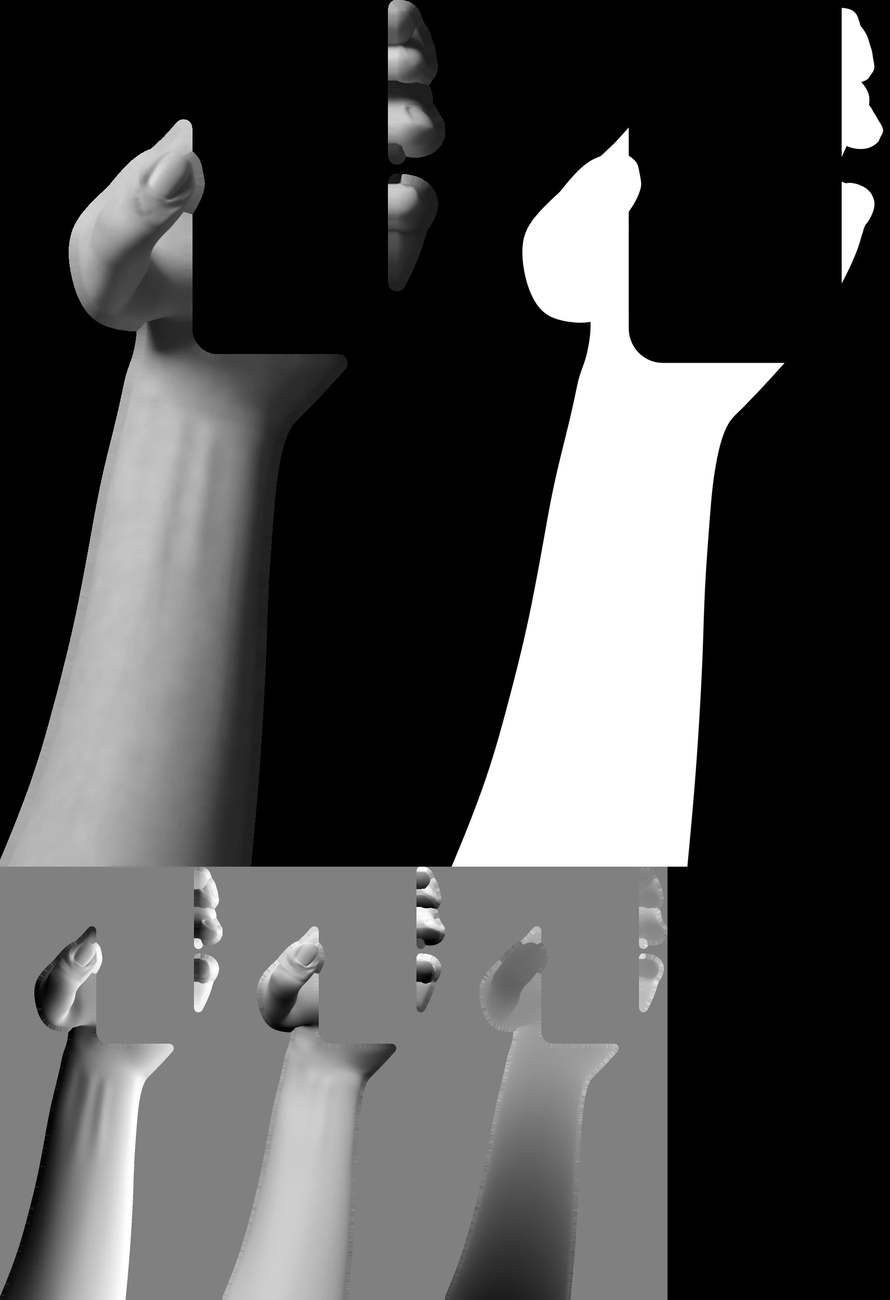
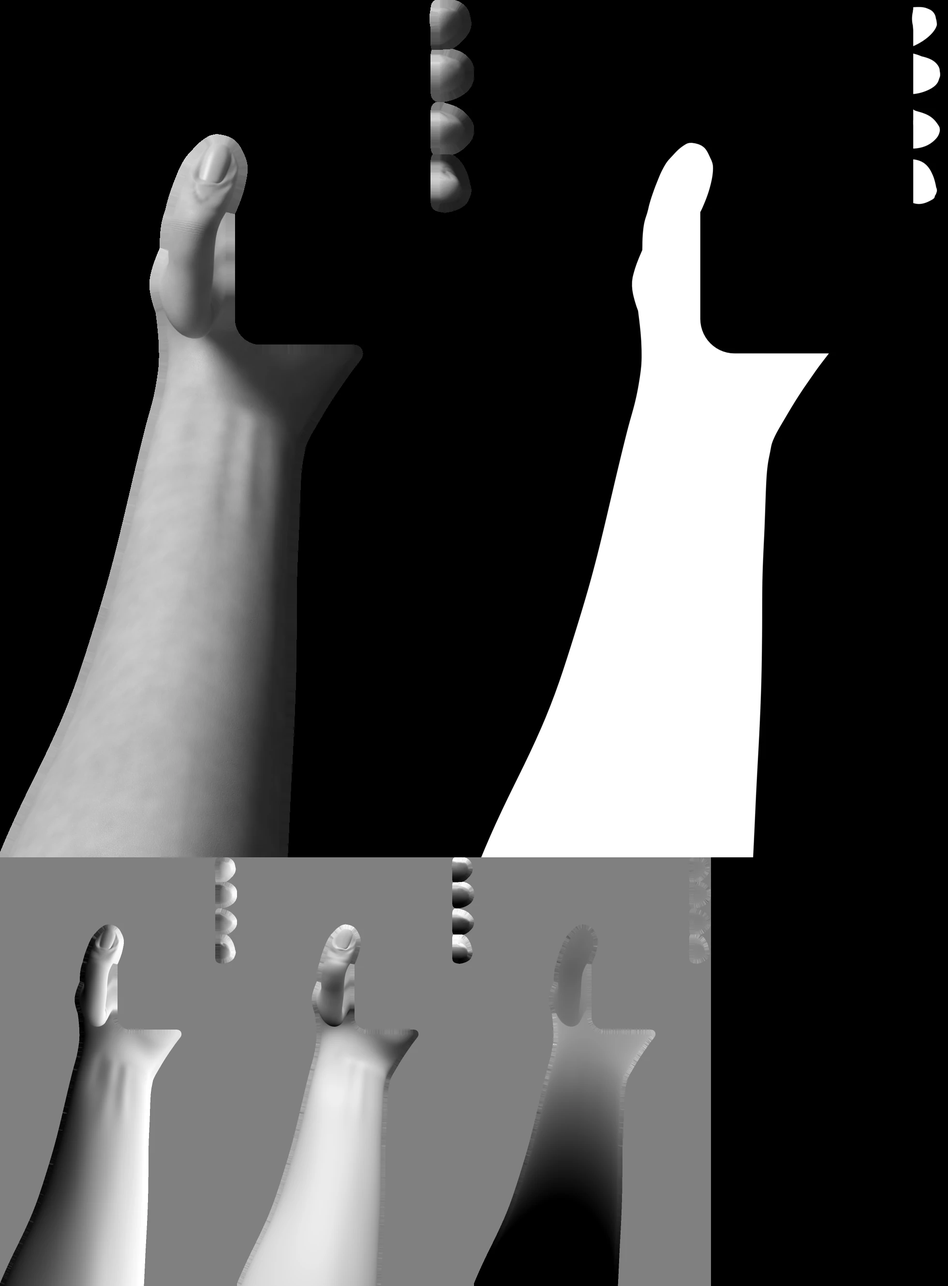
Hand-Pässe sechster Durchgang: Daumen und Ballen schlanker mit durchgehender linker Kontur ohne Hals, kein Hautkeil über dem Daumen, vier Kuppen mit Lücken, Zeigehand mit angelegtem Daumen und Faust in der Soll-Box, Haut mit Tonvariation und Glanz, HAND.md mit neuen Messwerten

diff --git a/design/HAND.md b/design/HAND.md
@@ -1,28 +1,30 @@
 # HAND: realistische Hände aus Blender
 
-Stand 2026-10-07, fünfter Durchgang (Branch `hand-v2`). Die beiden Hände der Engine (Handy-Hand `holdBack`/`holdFront`, Zeigehand `point`) kommen aus gerenderten Daten-Pässen (Leuchtdichte, Alpha, Normale, Tiefe); die Engine zeichnet daraus weiter Halbton-Punkte mit Zeigerlicht. Struktur wie in der Design-Referenz: linke Hand hält das Handy von hinten, Daumen schräg über der linken Rahmenkante, breiter Daumenballen links bis zur Handyunterkante, gestaffelte Fingerkuppen am rechten Rand, Handgelenk und Unterarm laufen unter dem Handy fast senkrecht nach unten; rechte Zeigehand von unten rechts, Zeigefinger steil zur Spitze bei (794, 301), übrige Finger eingerollt, Daumen über die eingerollten Finger gelegt, Unterarm in etwa 45° zur unteren rechten Ecke.
+Stand 2026-10-07, sechster Durchgang (Branch `hand-v2`). Die beiden Hände der Engine (Handy-Hand `holdBack`/`holdFront`, Zeigehand `point`) kommen aus gerenderten Daten-Pässen (Leuchtdichte, Alpha, Normale, Tiefe); die Engine zeichnet daraus weiter Halbton-Punkte mit Zeigerlicht. Struktur wie in der Design-Referenz: linke Hand hält das Handy von hinten, Daumen schräg über der linken Rahmenkante, breiter Daumenballen links bis zur Handyunterkante, gestaffelte Fingerkuppen am rechten Rand, Handgelenk und Unterarm laufen unter dem Handy fast senkrecht nach unten; rechte Zeigehand von unten rechts, Zeigefinger steil zur Spitze bei (794, 301), übrige Finger eingerollt, Daumen angelegt, Faust vor dem Bildschirm, Unterarm in etwa 45° zur unteren rechten Ecke.
 
-## 0. Was sich im fünften Durchgang geändert hat
+## 0. Was sich im sechsten Durchgang geändert hat
 
-Die Jury hat den vierten Stand (Basisnetz „Hand – Realistic“) mit 4/10 abgelehnt: Daumen als dünner Stiel, kein Thenar, Kugelkuppen mit Glanzringen, Finger ohne Lücken, Unterarm als Röhre, Zeigehand zu flach und puppenhaft, helle Säume, Weiß-Clipping. Neu ist alles außer Pass-Format und Shader:
+Die Jury hat den fünften Stand (c961d10) mit 5/10 bewertet. Modell (MPFB-Mann), Rig, Pass-Format und Shader bleiben; geändert sind Netz-Korrekturen, Gewichte, Posen, Haut und Messung. Vergleich vorher/nachher: `archiv/hand/v3/doc4/vorher_nachher.png`.
 
-- **Neues Modell:** Mensch aus **MPFB 2.0.17** (MakeHuman für Blender, CC0), Erwachsener, Mann (Makros `gender 0,9`, `age 0,55`, `muscle 0,62`, `weight 0,5`), MPFB-Standard-Rig `default` (Mittelhandknochen, drei Glieder je Finger, Daumen mit drei Knochen, Handgelenk, zwei Unterarmknochen) mit den MPFB-Gewichten. Beide Unterarme ab dem Ellbogen werden herausgelöst (`v3/scripts/extract.py`) und zweifach unterteilt (`bake_sub.py`, 29 305 Punkte je Arm). Modellwahl: Abschnitt 9.
-- **Anatomie ergänzt** (`v3/scripts/sculpt3.py`, im Ruhezustand, Verschiebung entlang der Normale): Beugesehnen am Handgelenk (Palmaris longus, Flexor carpi radialis/ulnaris), Brachioradialis- und Beugermasse am proximalen Unterarm (Unterarm konisch statt Röhre), Elle-Kopf, Strecksehnen und Knöchel-Plateaus (MCP) auf dem Handrücken, leichte Verdickung an PIP/DIP, Fingerbeeren. Die MPFB-Nagelrille (Ursache der „Ringe“) wird radial geglättet; der Nagel ist eine eigene Maske (abgerundetes Rechteck, länger als breit, Nagelhaut als Bogen, seitlicher Falz), 0,06 mm erhaben. Venen als Attribut (Unterarm volar, Handrücken).
-- **Haut** (`v3/scripts/skin3.py`): Random-Walk-Subsurface (Radius 1/0,42/0,25, Skala 4 mm), Albedo-Variation (Handfläche heller, Rücken und Gelenke dunkler/rötlicher, großflächige Flecken), Venen leicht bläulich-dunkler, Gelenkfalten als Relief quer zur Fingerachse (Abstand 1,15 mm, Hülle an PIP/DIP/MCP), Handgelenk mit zwei bis drei Beugefalten, Poren und feine Linien. Nägel heller, Rauigkeit 0,4 statt 0,6 (weicher Glanz), Nagelhaut als dunkle Linie. Kein Sheen, Specular 0,28.
-- **Pose aus Optimierung statt Handarbeit:** Handy-Hand per Nelder-Mead (`v3/scripts/opt_hold.py`) über Handgelenk-Lage, Handrichtung, Rollen, Handgelenk-Abweichung/-Beugung; Finger per IK zu den Kuppen-Zielen, Daumen in einer zweiten Stufe per FK (`opt_thumb.py`) mit Zielen für Spitze, Richtung der Daumenglieder, Überstand, Nagel zur Kamera. Strafterme: Durchdringung des Handys, Handballen vor dem Bildschirm, Überstand der Kuppen außerhalb 30 bis 52 px, Unterarmwinkel, Hautkeil links über dem Daumen. Zeigehand per FK mit Handgelenk-Suche, sodass der Unterarm in Richtung der Ecke läuft (`point3.py`).
-- **Verformung:** Armature, danach *Corrective Smooth* (Ruhezustand ORCO, 6 Iterationen), danach Unterteilung 1. Unterarmstreckung nur an den Unterarmknochen (`inherit_scale NONE` am Handgelenk), Hand und Finger bleiben unverzerrt.
-- **Licht:** nur Key (Fläche 0,30 m oben links vorne) und schwacher Fill von rechts vorne, **kein Rim**, Welt 0,01; Handy wirft keinen Schatten auf die Kuppen (sonst unlesbar). Zeigehand: steilerer Key (`lights/LP1.json`) für Kernschatten an Faust und Daumen.
-- **Tonkurve ohne Clipping** (`v3/scripts/pack5.py`): weiche Schulter (Reinhard mit Weißpunkt 1,6) statt hartem Abschneiden, 99,5. Perzentil der Hand auf 0,8 gelegt. Ergebnis: p99 = 0,78, Maximum 0,89 nur in Glanzpunkten. Alpha straight aus dem transparenten Film (Pixelfilter 1,0 px), keine eingebackene Tinte, keine Fenster-Maske mehr: vor dem Handy liegt nur, was geometrisch davor liegt (Daumenkuppe).
+- **Hautkeil über dem Daumen:** stammte vom Zeigefinger-Mittelhandknochen hinter dem Handy, der links vom Rahmen über der Daumenkuppe hervorschaute. Die Pose hält ihn jetzt rechts vom Rahmen (Strafterm `wedge`, 20 je Punkt), und `render4.py` maskiert zusätzlich alle Nicht-Daumen-Punkte hinter der Handy-Vorderseite links von x 656 oberhalb der Daumenkuppe als Holdout (Attribut `hold`). Links vom Rahmen ragt oberhalb der Kuppe nichts mehr heraus.
+- **Einschnürung unter dem Daumenballen:** Ursache war das Daumengrundglied, das als Wurst vor dem Handy bis y 680 hing, während das Handgelenk dahinter weiter rechts lag. Neu: Ziel für das Daumen-Grundgelenk (MCP) links unten am Rahmen, Hand um die Längsachse auf −27° gerollt, Handgelenk-Ziel x 640, Konturterm je 20-px-Band (x 560–590, ab y 660 höchstens 570) mit Glattheitsterm (Sprung ≤ 6 px). Gemessen aus `a` (`v3/scripts/leftrows.py`): linke Kontur von y 560 bis 790 zwischen x 559 und 573, Zeile zu Zeile höchstens 4 px Änderung, kein Hals, keine waagerechte Unterkante.
+- **Daumen und Ballen schlanker** (`v3/scripts/sculpt4.py`, im Ruhenetz): Daumen-Grund-/Endglied radial auf 0,72/0,86 um die Knochenachse, Ballen um den Daumen-Mittelhandknochen auf 0,6 eingezogen (zur Handwurzel hin auslaufend 1,25–1,45, damit kein Absatz entsteht). Daumen-Endgelenk per Taubin-Glättung (ohne Volumenverlust) entknotet, IP-Beugung auf höchstens 40° begrenzt (die 72° des fünften Stands quetschten die Haut hinter dem Nagel zu einem Knoten). Keine Venen am Daumen.
+- **Kuppen rechts:** Zeige-, Mittel-, Ring- und kleiner Finger per IK mit vier Knochen (Mittelhand + drei Glieder; Mittelhandknochen ±25°/±12° begrenzt), damit auch Zeige- und kleiner Finger um die Kante reichen; Strafterm für sichtbare Punkte rechts vom Rahmen außerhalb ±28 px um die Ziele (Lücken, kein Schwanz). Optimiert auf dem unterteilten Netz (29 305 Punkte), Zählterme durch die Dichte (16) geteilt.
+- **Gelenkfalten:** Hülle 1,9 mm statt 4,5 mm, Abstand 1,5 mm, also 2–3 flache Querfalten an PIP/DIP/IP statt vieler paralleler Riefen; Daumen-MCP schwächer.
+- **Zeigehand:** Daumen per eigener Optimierung (`opt_pthumb.py`, Raster + Nelder-Mead, Durchdringung per BVH) angelegt, Spitze am Mittelglied des Mittelfingers. Hand um die Zeigefingerachse auf −80° gerollt: Sicht auf Handrücken mit Knöchel-Plateaus, eingerollte Finger liegen hinter der Hand, Faust in der Soll-Box. Größe 0,44 statt 0,42. Unterarm weniger gestreckt (1,5/1,3 statt 1,9/1,4), dafür 1,2–1,3-fach dicker; Strecksehnen und MCP-Knöchel zusätzlich modelliert (`sculpt4.py`, `tendons`), Brachioradialis-Masse proximal +22 %.
+- **Haut** (`v3/scripts/skin4.py`): zusätzlich großflächige Tonvariation (Noise 22/m, Overlay 0,3), Rauigkeit 0,44–0,58 mit Noise statt konstant 0,6, Specular 0,42 statt 0,28 (feuchter Hautglanz statt Gips), Bump 0,42; Nägel 0,36 Rauigkeit mit weicher Glanzlinie. Poren (Voronoi 0,45 mm) und Falten bleiben unter der Halbtonzelle (2,5 px ≈ 0,6 mm).
+
+Grundlage aus dem fünften Durchgang (weiter gültig): MPFB-Mann, Rig `default` mit detailed helpers, Herauslösen der Unterarme (`extract.py`), Unterteilung 2 (`bake_sub.py`), `sculpt3.py` (Beugesehnen, Brachioradialis, Elle-Kopf, Strecksehnen, Knöchel, Fingerbeeren, eigene Nagelmaske), Corrective Smooth + Unterteilung 1 beim Render, Licht ohne Rim, Tonkurve mit weicher Schulter (`pack5.py`).
 
 ## 1. Dateien
 
 | Datei | Inhalt | Größe |
 |---|---|---|
-| `public/hand/hold.webp` + `hold.json` | Hand, die das Handy hält (Atlas 1840 × 2688, Kachel 920 × 1792, Maßstab 1,5, `origin [400, 205,3]`, `bottomY 1400`) | 64 kB |
-| `public/hand/point.webp` + `point.json` | Zeigehand als Sprite (Atlas 4296 × 552, Kachel 2148 × 368, Maßstab 1,0, `origin [−8, −80]`) | 43 kB |
-| Summe | | 107 kB (Grenze 600 kB) |
+| `public/hand/hold.webp` + `hold.json` | Hand, die das Handy hält (Atlas 1960 × 2658, Kachel 980 × 1772, Maßstab 1,5, `origin [341,3, 218,7]`, `bottomY 1400`) | 61 kB |
+| `public/hand/point.webp` + `point.json` | Zeigehand als Sprite (Atlas 4304 × 774, Kachel 2152 × 516, Maßstab 1,0, `origin [−12, −36]`) | 58 kB |
+| Summe | | 119 kB (Grenze 600 kB) |
 
-Schlüssel, Kachelnamen, Kodierung, `space`, `phone`, `screen`, `bottomY` und die Bühnenkoordinaten sind unverändert; geändert haben sich nur Kachelmaße, `origin` und Inhalt. Nichts ist abgeschnitten: die Handy-Hand endet unten an `bottomY 1400`, der Unterarm der Zeigehand reicht 1180 Bühnen-px weit und damit über das Verblassen (520 + 560) hinaus.
+Schlüssel, Kachelnamen, Kodierung, `space`, `phone`, `screen`, `bottomY` und die Bühnenkoordinaten sind unverändert; geändert haben sich nur Kachelmaße, `origin` und Inhalt. Nichts ist abgeschnitten: die Handy-Hand endet unten an `bottomY 1400`, der Unterarm der Zeigehand reicht 1180 Bühnen-px weit (Sprite 2139 px × 0,55) und damit über das Verblassen (520 + 560) hinaus.
 
 ## 2. Koordinaten
 
@@ -43,32 +45,34 @@ Bühne der Engine: 1280 × 800, Handy-Mitte 800/400, 4,19 Bühnen-px je mm in de
 | `nx`, `ny` | halb | Normale im Bildraum, 0..255 = −1..1 (x nach rechts, y nach oben), `nz = sqrt(1 − nx² − ny²)` |
 | `z` | halb | Tiefe, 0..255 = −100..+100 mm relativ zur Handy-Vorderseite (Handy-Pass) bzw. zur Fingerspitzen-Ebene (Zeigehand), plus = weiter weg |
 
-Lage in der Bühne: `origin` (Bühnen-px der oberen linken Ecke von `lum`/`a`) und `scale` (Kachel-px je Bühnen-px). Kachel-px `u = (x − origin.x) · scale / div`, `v = (y − origin.y) · scale / div`. Außerhalb der Silhouette sind `lum`, `nx`, `ny`, `z` 12 Bühnen-px nach außen fortgesetzt; immer mit `a` maskieren. Saum-Prüfung (`v3/scripts/edgecheck.py`): Helligkeit im Alpha-Rand minus 3 px innen im Mittel −0,008 (Handy-Hand) bzw. −0,016 (Zeigehand), also kein heller Saum; Randbreite ≤ 2 Kachel-px.
+Lage in der Bühne: `origin` (Bühnen-px der oberen linken Ecke von `lum`/`a`) und `scale` (Kachel-px je Bühnen-px). Kachel-px `u = (x − origin.x) · scale / div`, `v = (y − origin.y) · scale / div`. Außerhalb der Silhouette sind `lum`, `nx`, `ny`, `z` 12 Bühnen-px nach außen fortgesetzt; immer mit `a` maskieren. Saum-Prüfung (`v3/scripts/edgecheck.py`): Helligkeit im Alpha-Rand minus 3 px innen im Mittel −0,011 (Handy-Hand) bzw. −0,016 (Zeigehand), also kein heller Saum; Randbreite ≤ 2 Kachel-px.
 
 ## 4. Handy-Hand (`hold`)
 
-Linke Hand im Bild (MPFB-Rechtshand hinter der Spiegelkamera), Handgröße 1,06 des MPFB-Mannes (Handfläche 11,5 cm, Hand 19,5 cm). Gemessen im Bühnenraum aus `a`/`origin` (Soll aus der Referenz in Klammern):
+Linke Hand im Bild (MPFB-Rechtshand hinter der Spiegelkamera), Handgröße 1,0 des MPFB-Mannes (fünfter Stand 1,06). Gemessen im Bühnenraum aus `a`/`origin` (`leftrows.py`, `measure4.py`, `hold3.py`; Soll aus der Referenz in Klammern):
 
-- **Daumen:** äußerster Punkt der Kuppe bei x 670 / y 457, also **20 px** über dem Rahmen (Soll 15–25 px, y 400–460). Daumen schräg (Endglied 55°, Grundglied 68° zur Waagerechten), Nagel zur Kamera, breiter Daumenballen links des Handys von y 430 bis unter die Handyunterkante, linke Kontur bei x 515–600 (Soll ≈ 570).
-- **Kuppen rechts:** vier gestaffelte Fingerenden, Zeigefinger oben ≈ y 205–272, Mittelfinger ≈ 272–318, Ringfinger ≈ 333–405, kleiner Finger ≈ 459–540; Überstand über x 950: 27 / 44 / 53 / 41 px (Soll 28–48). Zwischen Ring- und kleinem Finger eine deutliche Lücke, zwischen den oberen drei schmale Lücken (die Finger liegen in der Tiefe gestaffelt).
-- **Handgelenk und Unterarm:** Handgelenk-Knochen bei (684, 775), Unterarm 10° aus der Senkrechten nach links unten, Breite bei y 800: 217 px (52 mm), das ist 0,61 der Handflächenbreite; konisch zum Ellbogen hin, Sehnen und Beugefalten am Handgelenk.
-- Die Handfläche liegt hinter dem Handy (Holdout). Links über dem Daumen bleibt ein schmaler Hautstreifen (Rückseite des Daumens am Rahmen, x 598–650, y 380–430), der in der Engine am DOM-Rahmen endet.
+- **Daumen:** äußerster Punkt vor dem Handy bei y 450, **21 px** über dem Rahmen (Soll 15–25 px, y 400–460); obere Kontur der Kuppe ab y 420. Endglied 71°, Grundglied 85° zur Waagerechten, IP 40° gebeugt, Nagel zur Kamera.
+- **Linke Kontur (Daumenballen bis Handgelenk):** x 629 (y 420, Kuppe) → 590 (y 480) → 573 (y 550) → **559 (y 610)** → 569 (y 660) → 572 (y 700) → 559 (y 790). Durchgehend leicht konvex, ohne Absatz bis unter die Handyunterkante (Soll ≈ 570, ≥ 560).
+- **Kuppen rechts:** vier Fingerenden mit Lücken; y-Bereiche rechts von x 953: 229–279 / 294–347 / 372–423 / 439–500, Lücken **15 / 25 / 16 px**, Überstand über x 950: **29 / 33 / 33 / 29 px** (Soll 28–48), kleiner Finger am kürzesten. IK-Ziele der Fingerspitzen (972, 246), (974, 326), (968, 402), (966, 476).
+- **Handgelenk und Unterarm:** Handgelenk-Knochen bei (659, 797), Unterarm 10° aus der Senkrechten nach links unten, bei y 800 von x 556 bis 767 (211 px = 50 mm), konisch zum Ellbogen hin, Sehnen und Beugefalten am Handgelenk.
+- Die Handfläche liegt hinter dem Handy (Holdout). Links vom Rahmen oberhalb der Daumenkuppe ist nichts mehr sichtbar (Pose + Maske `hold`).
 
 **Vorn/hinten** wie bisher im Shader aus `z` und Handy-Silhouette (`vorne = sdf < 4 && z < 1,5 mm`); vorne liegt nur die Daumenkuppe.
 
 ## 5. Zeigehand (`point`)
 
-Rechte Hand im Bild (MPFB-Linkshand hinter der Spiegelkamera), Handgröße 0,42 des MPFB-Mannes (die Referenz zeigt die Zeigehand deutlich kleiner als die haltende Hand). Pose: Zeigefinger gestreckt (MCP −4°, PIP 6°, DIP 4°), Mittel-/Ring-/kleiner Finger eingerollt (78/100/50, 82/100/50, 86/95/48), Daumen über die eingerollten Finger gelegt (`finger1-1 [30, −20, −25]`, `finger1-2 [20, 0, −10]`, `finger1-3 [30, 0, 0]`), Sicht auf Handfläche/Daumenseite wie in der Referenz (eingerollte Finger gestaffelt unten links), Zeigefinger 12° in die Bildschirmebene geneigt, Unterarm 25° zur Kamera ansteigend, Unterarmknochen 1,9/1,4-fach gestreckt.
+Rechte Hand im Bild (MPFB-Linkshand hinter der Spiegelkamera), Handgröße 0,44 des MPFB-Mannes (die Referenz zeigt die Zeigehand deutlich kleiner als die haltende Hand). Pose: Zeigefinger fast gestreckt (MCP −2°, PIP 10°, DIP 6°), Mittel-/Ring-/kleiner Finger eingerollt (78/100/50, 82/100/50, 86/95/48), **Daumen angelegt** (`finger1-1 [28,6, 26,3, 32,9]`, `finger1-2 [53,5, 0, −15,2]`, `finger1-3 [40, 0, 0]`, Spitze am Mittelglied des Mittelfingers, kollisionsfrei), Hand auf −80° um die Zeigefingerachse gerollt (Sicht auf Handrücken, Knöchel oben, eingerollte Finger hinter der Hand), Zeigefinger 12° in die Bildschirmebene geneigt, Unterarm 25° zur Kamera ansteigend, Unterarmknochen 1,5/1,3-fach lang und 1,2/1,3-fach dick.
 
-- Sprite-Raum unverändert: Ursprung = Fingerspitze, `x` = Richtung Arm, `y` nach unten = Seite der eingerollten Finger; `origin [−8, −80]`, Kachel 2148 × 368 bei Maßstab 1,0 (7,62 Sprite-px/mm, mit `PS 0,55` = 4,19 Bühnen-px/mm wie die Handy-Ebene).
+- Sprite-Raum unverändert: Ursprung = Fingerspitze, `x` = Richtung Arm, `y` nach unten = Seite der eingerollten Finger; `origin [−12, −36]`, Kachel 2152 × 516 bei Maßstab 1,0 (7,62 Sprite-px/mm, mit `PS 0,55` = 4,19 Bühnen-px/mm wie die Handy-Ebene).
 - Platzierung wie in der Engine (`u = normalize(1460 − ht.x, 1020 − ht.y)` usw., Abschnitt 6).
-- **Messwerte bei Spitze (794, 301)** (`v3/scripts/fistbox.py`): äußerster Spitzenpixel (798, 298); Zeigefinger **51°** über der Waagerechten (Soll 50–55°); Faust einschließlich Zeigefingerwurzel und Handgelenk x 754–930, y 336–550 (Soll Faust x 800–930, y 360–510: rechte Kante getroffen, die eingerollten Finger ragen 45 px weiter nach links); Unterarm **45,5°** zur Ecke, 99 px breit, verlässt die Bühne unten bei x 1065–1219.
+- **Messwerte bei Spitze (794, 301)** (`v3/scripts/fistbox.py`, `measure4.py`): Zeigefinger **52°** über der Waagerechten (Soll 50–55°); Faust einschließlich Zeigefingerwurzel und Handgelenk **x 798–926**, y 336–550 (Soll Faust x 800–930, y 360–510; fünfter Stand x 754–930); Unterarm **45°** zur Ecke, 118 px breit. Breite quer zum Arm (Sprite-px): Handgelenk 147, +150 px 175, +300 px 211 (1,43-fach, Brachioradialis-Bauch), +600 px 295. Handgelenk zu Hand (inkl. eingerollter Finger) 0,59; zur Mittelhand allein ≈ 0,65.
+- Die Textanfänge der Liste („Küche wischen“, „Mikas Bruder …“) bleiben frei; die Faust beginnt bei x 798.
 - **Verblassen:** wie im vierten Durchgang muss die Engine `300`/`420` in `drawHands` auf **`520`/`560`** setzen (der Referenz-Shader `v2/scripts/preview.html` macht das über `fs`/`fl`).
 - Helligkeit: Perzentil 99,5 → 0,8 mit weicher Schulter, keine Rampe mehr.
 
 ## 6. Halbton-Shader (Referenz, aus `preview.html`)
 
-Lauffähige Referenz: `/Users/abu/Company/archiv/hand/v2/scripts/preview.html` (Aufruf: Ordner `archiv/hand` mit `python3 -m http.server`, dann `/v2/scripts/preview.html?b=../out/<ordner>/`; Parameter `ps`, `g`, `con`, `rim`, `view`, `fs`/`fl` (Verblassen der Zeigehand), `ascii=1`, `mx/my/px/py`). Geprüft bei 1440 × 900 und 390 × 844 (Ausschnitt `view=560,40,540,1170`). Vergleichsbild (Design / Halbton / Luminanz): `archiv/hand/v3/doc/vergleich.png`.
+Lauffähige Referenz: `/Users/abu/Company/archiv/hand/v2/scripts/preview.html` (Aufruf: Ordner `archiv/hand` mit `python3 -m http.server`, dann `/v2/scripts/preview.html?b=../out/<ordner>/`; Parameter `ps`, `g`, `con`, `rim`, `view`, `fs`/`fl` (Verblassen der Zeigehand), `ascii=1`, `mx/my/px/py`). Geprüft bei 1440 × 900 und 390 × 844 (Ausschnitt `view=560,40,540,1170`). Vergleichsbild (Design / Halbton / Luminanz): `archiv/hand/v3/doc4/vergleich.png`.
 
 `dot()`, `HB`, `hsh`, `cl`, `ss`, `lightF`, `ink`, `step 2,5` bleiben aus der Engine. Neu ist nur die Herkunft von `v` (Ton 0..1) je Zelle. Abgestimmte Konstanten: `GAM 0,6`, `CON 1,25`, `RIM 0,45`, `EDW 3,4`, `EDV 1,0`, `JIT 0,15` (Engine: 0,4; weniger Zufall = lesbare Finger).
 
@@ -143,21 +147,25 @@ Dieselben Pässe, keine zweite Fassung. Die Komposition (Handy, Daumen, Finger, 
 
 Arbeitsordner `/Users/abu/Company/archiv/hand/v3/` (Blender 5.2 mit MPFB 2.0.17, Python-Werkzeuge aus `v2/venv`). Kameras und Pass-Ausgabe kommen unverändert aus `v2/scripts/scene2.py` und `build_common.py` (`CamMaster` mit Spiegelung, `make_point_cam`, `render_pass_pair`).
 
-- Modell: `mk_mpfb.py` (Mensch, Makros eingebacken, Rig `default` mit **detailed helpers**, sonst passt MPFB das Rig nicht an die Makros an) → `extract.py` → `bake_sub.py` → `sculpt3.py` → `hands_sc.blend` (Objekte `ArmL`, `ArmR`, Rig `Human.rig`).
+- Modell: `mk_mpfb.py` (Mensch, Makros eingebacken, Rig `default` mit **detailed helpers**, sonst passt MPFB das Rig nicht an die Makros an) → `extract.py` → `bake_sub.py` → `sculpt3.py` → `hands_sc.blend` → `sculpt4.py` (`blender -b hands_sc.blend --python scripts/sculpt4.py -- hands_sc4.blend 190`; grobes Netz für Schnelltests: `hands_male.blend` → `hands_male4.blend` mit 12) → `hands_sc4.blend` (Objekte `ArmL`, `ArmR`, Rig `Human.rig`).
 - Bone-Achsen im MPFB-Rig: Finger `X` = Beugung (+), `Z` = Abspreizung; Daumen `finger1-*`: `X` quer über die Handfläche, `−Z` zur Handfläche; `wrist`: `X` radial (+), `Z` Beugung (+). `finger1` = Daumen, `finger2..5` = Zeige- bis kleiner Finger, `metacarpal1..4` = Mittelhand Zeige- bis kleiner Finger.
-- Posen: `q_hold_final.json` (Handgelenk, Richtung, Skala 1,06, FK für Handgelenk und Daumen, IK-Ziele der Kuppen), `q_point_final.json`. Licht: `lights/L2.json` (Handy-Hand), `lights/LP1.json` (Zeigehand). Cycles 192 Samples, Entrauschen, transparenter Film, Pixelfilter 1,0.
+- Posen: `q4_hold_final.json` (Handgelenk, Richtung, Skala 1,0, FK für Handgelenk und Daumen, IK-Ziele der Kuppen mit Kette 4), `q4_point_final.json`. Licht: `lights/L2.json` (Handy-Hand), `lights/LP1.json` (Zeigehand). Cycles 192 Samples, Entrauschen, transparenter Film, Pixelfilter 1,0. Render mit `render4.py` (Haut `skin4.py`, Keil-Maske).
 
 ```
 cd /Users/abu/Company/archiv/hand/v3
-./hp.sh q_o13.json h13                  # Optimierung Hand + Daumen, Render, Pack (Handy-Hand)
-./rh.sh F2h q_hold_final.json 192 100 lights/L2.json      # nur Render + Pack Handy-Hand
-./rp.sh F1p q_point_final.json 192 100 lights/LP1.json    # Render + Pack Zeigehand
-../v2/venv/bin/python scripts/fistbox.py out/F1p/pk       # Messwerte Zeigehand
-../v2/venv/bin/python scripts/edgecheck.py out/F2h/pk hold # Saum-Prüfung
-../v2/venv/bin/python scripts/compose5.py out/fin/pk lum.png 2 794 301 clean   # Luminanz im Bühnenraum
+blender -b hands_sc4.blend --python scripts/opt_hold4.py -- q4_h19.json q/q4_h19_o.json 400   # Hand + Finger (dens 16)
+BL=hands_sc4.blend IT=600 ./qr.sh q4_h26        # Daumen (opt_thumb4.py, MCP-Ziel, IP <= 40°) + Schnellansicht
+blender -b hands_sc4.blend --python scripts/opt_pthumb.py -- qp4_2.json q/qp4_2.json 200   # Daumen Zeigehand
+BL=hands_sc4.blend ./rh4.sh F4h q4_hold_final.json 192 100 lights/L2.json     # Render + Pack Handy-Hand
+BL=hands_sc4.blend ./rp4.sh F4p q4_point_final.json 192 100 lights/LP1.json   # Render + Pack Zeigehand
+./comp.sh F4h F4p fin4                         # Packs zusammenlegen, Faust-Messung, Luminanz im Bühnenraum
+../v2/venv/bin/python scripts/leftrows.py out/fin4/pk    # linke Kontur je 10 px
+../v2/venv/bin/python scripts/measure4.py out/fin4/pk    # Kuppen, Lücken, Handgelenk/Unterarm
+../v2/venv/bin/python scripts/edgecheck.py out/fin4/pk hold   # Saum-Prüfung
+./ht.sh fin4                                   # Halbton 1280x800, 1440x900, 390x844
 ```
 
-Halbton-Vorschau: Dateien nach `archiv/hand/v2/out/c_<tag>/` kopieren, Server `python3 -m http.server 4290` in `archiv/hand`, dann `v2/scripts/shot.mjs "b=../out/c_<tag>/&px=794&py=301&mx=794&my=301" out.png 1280 800 794 301` (`PAGE=v2/scripts/preview.html`). Geprüft bei 1280 × 800, 1440 × 900 und 390 × 844 (`view=560,40,540,1170`); Bilder in `archiv/hand/v3/doc/`.
+Halbton-Vorschau: Dateien nach `archiv/hand/v2/out/c_<tag>/` kopieren, Server `python3 -m http.server 4290` in `archiv/hand`, dann `v2/scripts/shot.mjs "b=../out/c_<tag>/&px=794&py=301&mx=794&my=301" out.png 1280 800 794 301` (`PAGE=v2/scripts/preview.html`). Geprüft bei 1280 × 800, 1440 × 900 und 390 × 844 (`view=560,40,540,1170`); Bilder in `archiv/hand/v3/doc4/` (`ht.sh` erledigt Kopie, Server und alle drei Größen).
 
 Nicht mehrere Blender-Läufe mit GPU parallel starten (Metal: „Insufficient Memory“).
 
@@ -165,13 +173,13 @@ Nicht mehrere Blender-Läufe mit GPU parallel starten (Metal: „Insufficient Me
 
 Basismodell: **MPFB 2.0.17** (MakeHuman Plugin for Blender), Ausgabe der Basis-Assets und Ziele unter **CC0**; Paket `archiv/hand/mpfb/add-on-mpfb-v2.0.17.zip`. Alles Weitere (Herauslösen, Unterteilung, anatomische Ergänzungen, Nägel, Material, Posen-Optimierung, Licht, Render, Pässe) ist eigene Arbeit. Kein generiertes Modell, keine fremde Fotografie; Fotos von Händen am Handy dienten nur als Vorlage für Proportion und Haltung.
 
-**Vergleich** (`archiv/hand/v3/doc/modellwahl.png`, gleiche Haut, gleiches Licht, vier Ansichten): MPFB Standard (androgyn, schmale lange Finger), MPFB Mann (breitere Hand, kräftigere Finger, modellierte Nagelbetten, Daumenballen, natürlichere Proportionen) und das bisherige „Hand – Realistic“ (Human Base Meshes; Sehnen auf dem Handrücken, aber eigenes Rig ohne Mittelhandknochen). Gewählt: **MPFB Mann**, weil Proportionen und Rig (echte Mittelhandknochen, Unterarm mit zwei Segmenten, Körpergewichte) natürlicher verformen und die Hand ohne Unterarm-Streckung und Knochen-Kürzungen in die Pose passt; die Sehnen und Knöchel, die das alte Netz voraus hatte, ergänzt `sculpt3.py`.
+**Vergleich** (`archiv/hand/v3/doc/modellwahl.png`, gleiche Haut, gleiches Licht, vier Ansichten): MPFB Standard (androgyn, schmale lange Finger), MPFB Mann (breitere Hand, kräftigere Finger, modellierte Nagelbetten, Daumenballen, natürlichere Proportionen) und das bisherige „Hand – Realistic“ (Human Base Meshes; Sehnen auf dem Handrücken, aber eigenes Rig ohne Mittelhandknochen). Gewählt: **MPFB Mann**, weil Proportionen und Rig (echte Mittelhandknochen, Unterarm mit zwei Segmenten, Körpergewichte) natürlicher verformen und die Hand ohne Unterarm-Streckung und Knochen-Kürzungen in die Pose passt; die Sehnen und Knöchel, die das alte Netz voraus hatte, ergänzt `sculpt3.py`. Im sechsten Durchgang bestätigt: Die Mängel des fünften Stands (Keil, Hals, Daumenknoten, Kuppen) waren Pose- und Gewichtsfragen, kein Modell-Limit; die Mittelhandknochen des MPFB-Rigs werden jetzt sogar gebraucht (IK-Kette 4 für die Kuppen). Ein Wechsel zurück zum Human-Base-Meshes-Netz (ohne Mittelhandknochen) hätte das verhindert.
 
 ## 10. Bekannte Grenzen
 
-- Die Zeigehand ist wie in der Referenz deutlich kleiner als die Handy-Hand (0,42 zu 1,06). In echter Perspektive wäre die vordere Hand eher größer.
-- Die Kuppen rechts sind bei echter Fingerdicke (≈ 20 mm) größer als in der Referenz und liegen in der Tiefe gestaffelt; der Ringfinger steht mit 53 px etwas weiter über als die Referenz (48).
-- Die eingerollten Finger der Zeigehand ragen bis x 754 nach links (Referenz-Box ab 800), weil die Faust aus der Handflächen-Sicht breiter ist.
+- Die Zeigehand ist wie in der Referenz deutlich kleiner als die Handy-Hand (0,44 zu 1,0). In echter Perspektive wäre die vordere Hand eher größer; die Faust-Box der Referenz lässt kaum mehr zu.
+- Das Daumengrundglied steht steiler als in der Referenz (85° statt etwa 60–70°); ein schrägerer Daumen schiebt den Ballen wieder links über x 560 hinaus. Die Unterkante des Grundglieds liegt vor dem Ballen und zeichnet sich als weiche Falte ab (anatomisch richtig, aber sichtbar).
+- Lücken zwischen den Kuppen 15–25 px statt 6–12 px; die Kuppen sind von vorn gesehene Fingerenden ohne sichtbaren Nagel.
+- Die ulnare Kontur der Handy-Hand unter dem Handy läuft weiterhin als Gerade von der Handy-Ecke nach links unten; der Knick zur Unterarmkante liegt erst bei y ≈ 820, also unter der Bühnenkante, und wird im Bild größtenteils vom Unterarm der Zeigehand verdeckt.
 - `lum` ist für ein festes Licht gebacken; das Zeigerlicht verschiebt nur Glanz und Helligkeit. Der Halbton (Zelle 2,5 px) löst Poren und Gelenkfalten nicht auf; sie wirken nur in `lum`.
-- Hautton und Unterarm sind glatt und haarlos; Sommersprossen, Haare und echte Albedo-Texturen fehlen (MPFB-Hauttexturen sind nicht im Paket).
-- Ein schmaler Hautstreifen links über der Daumenkuppe (Daumenrückseite am Rahmen) endet am DOM-Rahmen.
+- Haut ohne Haare und ohne echte Albedo-Texturen (MPFB-Hauttexturen sind nicht im Paket); Tonvariation und Poren sind prozedural.
